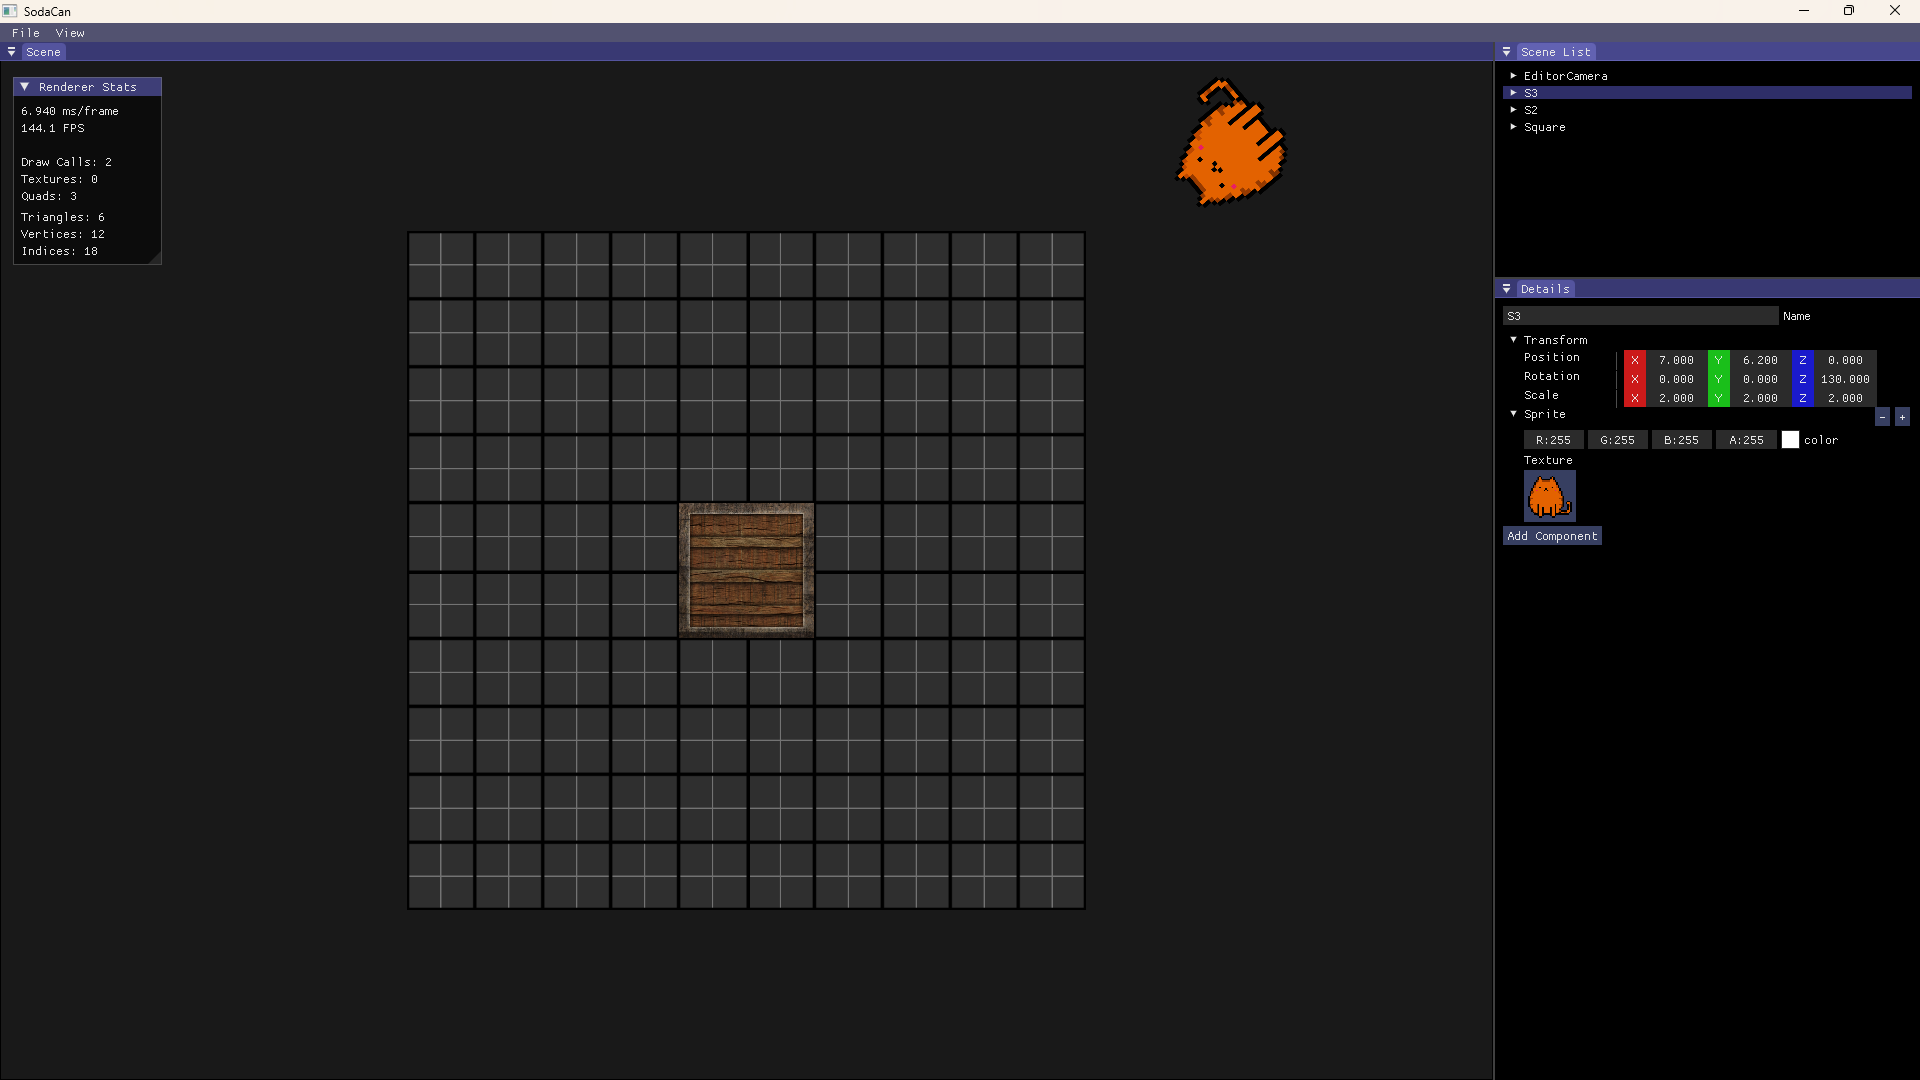
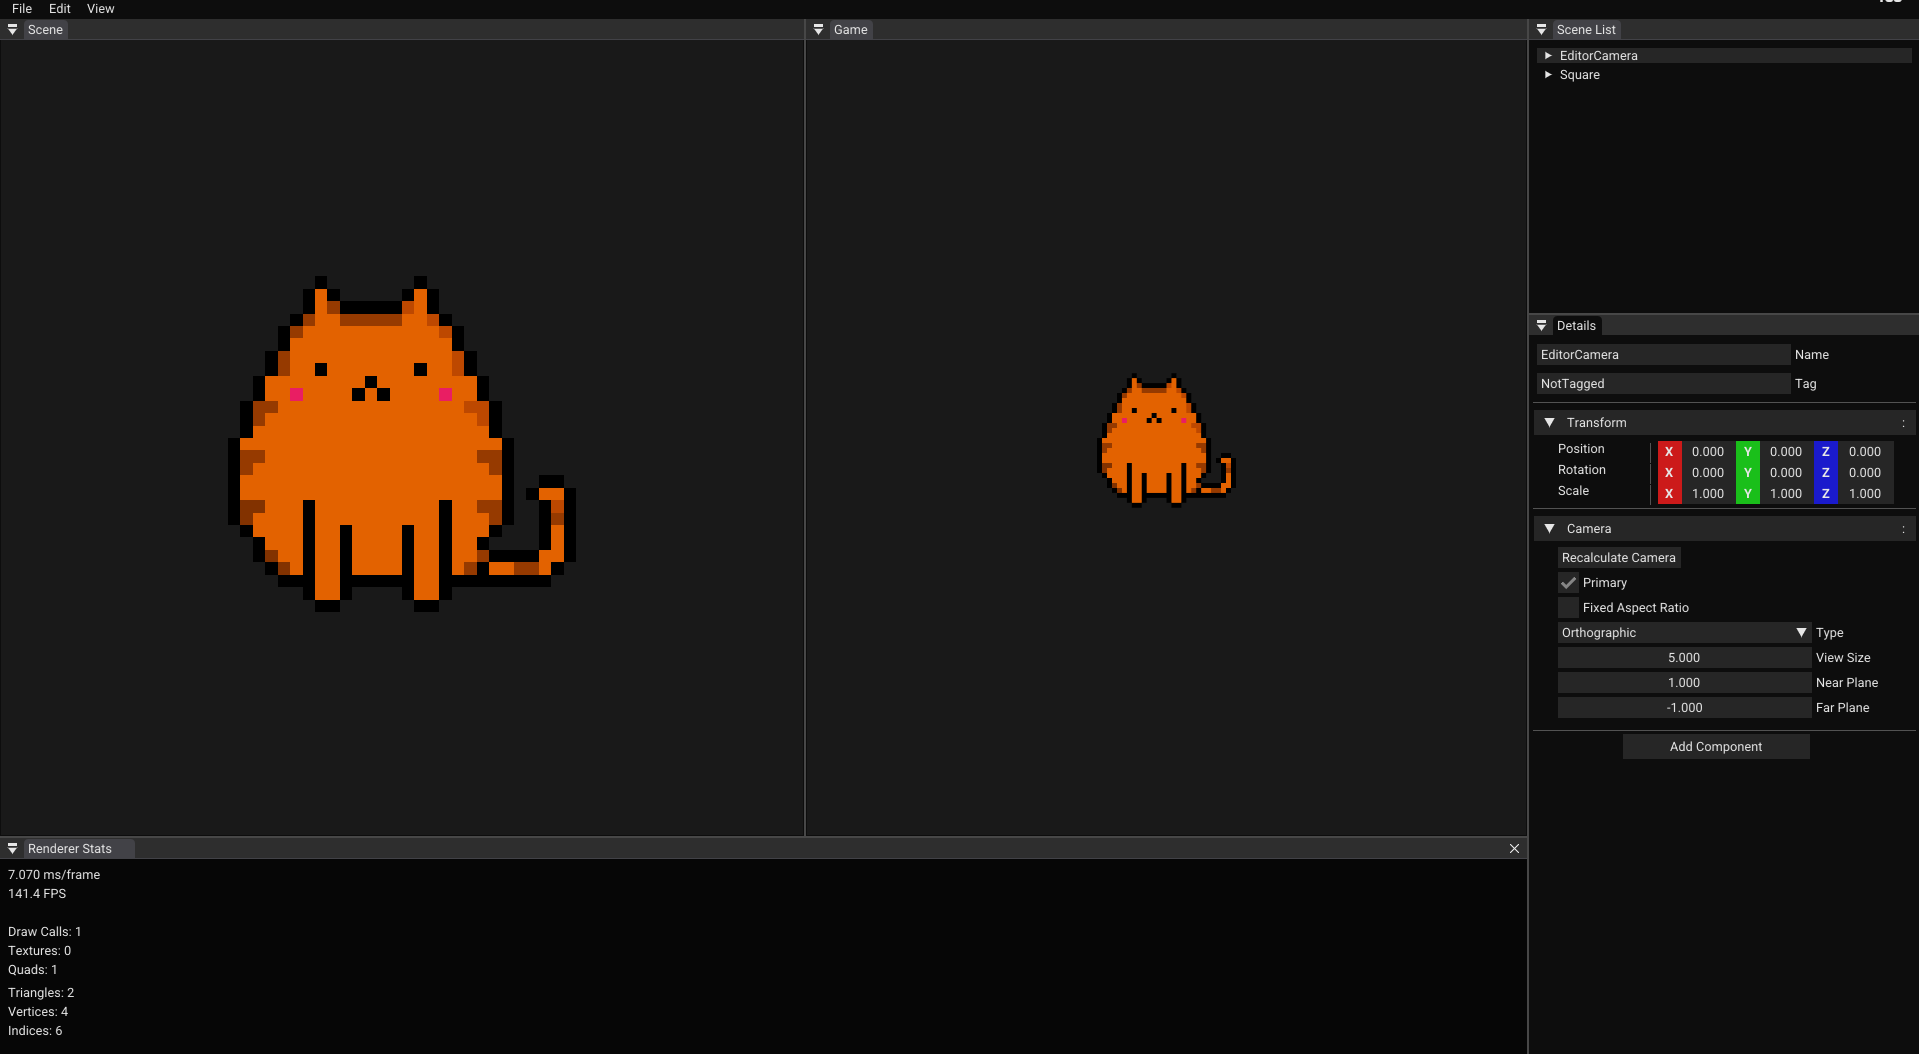
well, we have a scene view and an editor view now. time to add some widgets

diff --git a/SodaCan/src/AppLayer.cpp b/SodaCan/src/AppLayer.cpp
@@ -17,7 +17,8 @@ void SodaCan::OnAttach()
   FramebufferInfo m_FramebufferInfo;
   m_FramebufferInfo.width = 1280;
   m_FramebufferInfo.height = 720;
-  m_Framebuffer = Framebuffer::Create(m_FramebufferInfo);
+  m_EditorFramebuffer = Framebuffer::Create(m_FramebufferInfo);
+  m_GameFramebuffer = Framebuffer::Create(m_FramebufferInfo);
 
   m_Scene = CreateRef<Scene>();
 
@@ -44,32 +45,44 @@ void SodaCan::OnAttach()
 
 void SodaCan::OnUpdate(Timestep dt)
 {
-  if(FramebufferInfo fInfo = m_Framebuffer->GetFramebufferInfo();
-     m_ViewportSize.x > 0.0f && m_ViewportSize.y > 0.0f &&
-     (fInfo.width != m_ViewportSize.x || fInfo.height != m_ViewportSize.y))
+  if(FramebufferInfo fInfo = m_GameFramebuffer->GetFramebufferInfo();
+     m_GameViewportSize.x > 0.0f && m_GameViewportSize.y > 0.0f &&
+     (fInfo.width != m_GameViewportSize.x ||
+      fInfo.height != m_GameViewportSize.y))
   {
-    m_Framebuffer->Refresh((uint32_t)m_ViewportSize.x,
-                           (uint32_t)m_ViewportSize.y);
-    m_EditorCamera.WhenResized(m_ViewportSize.x, m_ViewportSize.y);
-
-    m_Scene->OnResize((uint32_t)m_ViewportSize.x, (uint32_t)m_ViewportSize.y);
+    m_GameFramebuffer->Refresh((uint32_t)m_GameViewportSize.x,
+                               (uint32_t)m_GameViewportSize.y);
+    m_Scene->OnGameResize((uint32_t)m_GameViewportSize.x,
+                          (uint32_t)m_GameViewportSize.y);
+  }
+  if(FramebufferInfo fInfo = m_EditorFramebuffer->GetFramebufferInfo();
+     m_EditorViewportSize.x > 0.0f && m_EditorViewportSize.y > 0.0f &&
+     (fInfo.width != m_EditorViewportSize.x ||
+      fInfo.height != m_EditorViewportSize.y))
+  {
+    m_EditorFramebuffer->Refresh((uint32_t)m_EditorViewportSize.x,
+                                 (uint32_t)m_EditorViewportSize.y);
+    m_EditorCamera.OnResize(m_EditorViewportSize.x, m_EditorViewportSize.y);
+    m_Scene->OnEditorResize((uint32_t)m_EditorViewportSize.x,
+                            (uint32_t)m_EditorViewportSize.y, m_EditorCamera);
   }
 
-  if(m_IsPanelHovered)
+  if(m_IsScenePanelHovered)
     m_EditorCamera.OnUpdate(dt);
 
-  m_Framebuffer->Bind();
+  m_GameFramebuffer->Bind();
   RenderCommand::ClearScreen({0.1f, 0.1f, 0.1f, 1.0f});
   Renderer2D::ResetRendererStats();
+  // Game Render Loop
+  m_Scene->OnGameUpdate(dt);
+  m_GameFramebuffer->Unbind();
 
-  // Render Loop
-  Renderer2D::StartScene(m_EditorCamera.GetCamera());
-  {
-    m_Scene->OnUpdate(dt);
-  }
-  Renderer2D::StopScene();
-
-  m_Framebuffer->Unbind();
+  m_EditorFramebuffer->Bind();
+  RenderCommand::ClearScreen({0.1f, 0.1f, 0.1f, 1.0f});
+  Renderer2D::ResetRendererStats();
+  // Editor Render Loop
+  m_Scene->OnEditorUpdate(dt, m_EditorCamera);
+  m_EditorFramebuffer->Unbind();
 }
 
 void SodaCan::OnEvent(Event &event)
@@ -172,24 +185,36 @@ void SodaCan::OnImGuiUpdate()
     m_Panels.OnImGuiRender();
 
     ImGui::PushStyleVar(ImGuiStyleVar_WindowPadding, ImVec2(0, 0));
+    // @FIXME: WTF is wrong with scrolling and consuming events?
+    // i dont even know if i set it up right
+    // i just know that scrolling works when the mouse isnt hovered in other
+    // imgui windows.
     ImGui::Begin("Scene");
     {
-      // Checks is the panel is Focused
-      // @FIXME: The Inputs should be consumed by the ImGui Panel and not the
-      // mani window.
-      m_IsPanelFocused = ImGui::IsWindowFocused();
-      m_IsPanelHovered = ImGui::IsWindowHovered();
+      m_IsScenePanelFocused = ImGui::IsWindowFocused();
+      m_IsScenePanelHovered = ImGui::IsWindowHovered();
 
-      App::Get().GetImGuiLayer()->ShouldConsumeEvents(!m_IsPanelHovered);
+      App::Get().GetImGuiLayer()->ShouldConsumeEvents(m_IsScenePanelHovered);
 
-      // @TODO: put this inside a OnWindowResize Callback somehow
-      // because we dont wanna check the scene/viewport each frame,
-      // we only wanna do it when we resize.
-      ImVec2 sceneSize = ImGui::GetContentRegionAvail();
-      m_ViewportSize = {sceneSize.x, sceneSize.y};
-      ImGui::Image((void *)m_Framebuffer->GetFrameTextureID(),
-                   ImVec2(m_ViewportSize.x, m_ViewportSize.y), ImVec2(0, 1),
-                   ImVec2(1, 0));
+      ImVec2 editorSceneSize = ImGui::GetContentRegionAvail();
+      m_EditorViewportSize = {editorSceneSize.x, editorSceneSize.y};
+      ImGui::Image((void *)m_EditorFramebuffer->GetFrameTextureID(),
+                   ImVec2(m_EditorViewportSize.x, m_EditorViewportSize.y),
+                   ImVec2(0, 1), ImVec2(1, 0));
+    }
+    ImGui::End();
+    ImGui::Begin("Game");
+    {
+      m_IsGamePanelFocused = ImGui::IsWindowFocused();
+      m_IsGamePanelHovered = ImGui::IsWindowHovered();
+
+      App::Get().GetImGuiLayer()->ShouldConsumeEvents(m_IsGamePanelHovered);
+
+      ImVec2 gameSceneSize = ImGui::GetContentRegionAvail();
+      m_GameViewportSize = {gameSceneSize.x, gameSceneSize.y};
+      ImGui::Image((void *)m_GameFramebuffer->GetFrameTextureID(),
+                   ImVec2(m_GameViewportSize.x, m_GameViewportSize.y),
+                   ImVec2(0, 1), ImVec2(1, 0));
     }
     ImGui::End();
     ImGui::PopStyleVar();

diff --git a/SodaEngine/src/ECS/Scene.cpp b/SodaEngine/src/ECS/Scene.cpp
@@ -24,8 +24,36 @@ Object Scene::CreateObject(const std::string &name)
 }
 void Scene::DestroyObject(Object obj) { m_Registry.destroy(obj); }
 
-// Scene Functions
-void Scene::OnUpdate(Timestep dt)
+// Editor Functions
+void Scene::OnEditorUpdate(Timestep dt, EditorCamera &editorCam)
+{
+  Renderer2D::StartScene(editorCam);
+  {
+    auto group =
+        m_Registry.group<TransformComponent>(entt::get<SpriteComponent>);
+
+    for(auto entity : group)
+    {
+      const auto &[Transform, Sprite] =
+          group.get<TransformComponent, SpriteComponent>(entity);
+
+      if(Sprite.Texture)
+        Renderer2D::DrawQuad(Transform.GetTransform(), Sprite.Texture,
+                             Sprite.Color, Sprite.TextureScale);
+      else
+        Renderer2D::DrawQuad(Transform.GetTransform(), Sprite.Color);
+    }
+  }
+  Renderer2D::StopScene();
+}
+void Scene::OnEditorResize(uint32_t width, uint32_t height,
+                           EditorCamera &editorcam)
+{
+  editorcam.OnResize(width, height);
+}
+
+// Game Functions
+void Scene::OnGameUpdate(Timestep dt)
 {
   // Script Components
   m_Registry.view<ScriptComponent>().each([=](auto entity, auto &script) {
@@ -81,8 +109,7 @@ void Scene::OnUpdate(Timestep dt)
     Renderer2D::StopScene();
   }
 }
-
-void Scene::OnResize(uint32_t width, uint32_t height)
+void Scene::OnGameResize(uint32_t width, uint32_t height)
 {
   auto cameras = m_Registry.view<CameraComponent>();
   for(auto camera : cameras)

diff --git a/SodaCan/src/AppLayer.h b/SodaCan/src/AppLayer.h
@@ -21,8 +21,9 @@ public:
   void OnResize(uint32_t width, uint32_t height) override;
 
 private:
-  OrthoCameraController m_EditorCamera;
-  Ref<Framebuffer> m_Framebuffer;
+  EditorCamera m_EditorCamera;
+  Ref<Framebuffer> m_GameFramebuffer;
+  Ref<Framebuffer> m_EditorFramebuffer;
   Ref<Scene> m_Scene;
 
   Object m_Square;
@@ -30,11 +31,16 @@ private:
   Object m_GameCamera;
   Object m_SecondCam;
 
-  glm::vec2 m_ViewportSize = glm::vec2(0.0f);
+  glm::vec2 m_GameViewportSize = glm::vec2(0.0f);
+  glm::vec2 m_EditorViewportSize = glm::vec2(0.0f);
   Panels m_Panels;
 
 private:
-  bool m_IsPanelFocused = false;
-  bool m_IsPanelHovered = false;
+  // game viewport
+  bool m_IsGamePanelFocused = false;
+  bool m_IsGamePanelHovered = false;
+  // Scene Viewport
+  bool m_IsScenePanelFocused = false;
+  bool m_IsScenePanelHovered = false;
 };
 } // namespace Soda

diff --git a/SodaEngine/src/Renderer/Framebuffer.cpp b/SodaEngine/src/Renderer/Framebuffer.cpp
@@ -15,12 +15,7 @@ Ref<Framebuffer> Framebuffer::Create(const FramebufferInfo &framebufferInfo)
     SD_ENGINE_ASSERT(!nullptr, "No API Selected :/");
 
   case RenderAPI::API::OpenGL:
-    // this is the first time this new CreateRef<> is being used (27-02-2024)
-    // if i take time to make everything a CreateRef instead of returning a
-    // pointer, i will delete this comment
     return CreateRef<OpenGLFramebuffer>(framebufferInfo);
-    // i can just check the commit if i wanna know when i added the comment.
-    // but this is just a look away
   }
 
   SD_ENGINE_ASSERT(!nullptr, "Invalid API Selection :O");

diff --git a/SodaEngine/src/ECS/Scene.h b/SodaEngine/src/ECS/Scene.h
@@ -4,6 +4,7 @@
 #include "glm/glm.hpp"
 
 #include "Core/Timestep.h"
+#include "Editor/EditorCamera.h"
 
 namespace Soda
 {
@@ -22,8 +23,10 @@ public:
   void DestroyObject(Object obj);
 
   // entity functions
-  void OnUpdate(Timestep dt);
-  void OnResize(uint32_t width, uint32_t height);
+  void OnEditorUpdate(Timestep dt, EditorCamera &editorCam);
+  void OnEditorResize(uint32_t width, uint32_t height, EditorCamera &editorcam);
+  void OnGameUpdate(Timestep dt);
+  void OnGameResize(uint32_t width, uint32_t height);
 
 private:
   entt::registry m_Registry;

diff --git a/SodaEngine/src/Renderer/Renderer2D.cpp b/SodaEngine/src/Renderer/Renderer2D.cpp
@@ -8,7 +8,6 @@
 #include "Renderer/Render.h"
 #include "Renderer2D.h"
 
-
 #include "Renderer/Shaderer.h"
 #include "Renderer/Texture.h"
 #include "Renderer/VertexArray.h"
@@ -125,6 +124,15 @@ void Renderer2D::Setup()
 
   m_QuadInfo.m_IndicesCount = 0;
   m_QuadInfo.m_TextureIndex = 1;
+}
+
+void Renderer2D::StartScene(const EditorCamera &camera)
+{
+  m_QuadInfo.m_Shader->Bind();
+  m_QuadInfo.m_Shader->SetUniformMat4(
+      "u_PVMat", camera.GetCamera().GetProjectionViewMat());
+
+  Setup();
 }
 
 void Renderer2D::StartScene(const OrthoCamera &camera)

diff --git a/SodaEngine/src/Editor/EditorCamera.cpp b/SodaEngine/src/Editor/EditorCamera.cpp
@@ -66,13 +66,12 @@ bool EditorCamera::OnMouseScrolled(MouseScrollEvent &msEvent)
 
 bool EditorCamera::OnWindowResized(WindowResizeEvent &wrEvent)
 {
-  WhenResized((float)wrEvent.GetWindowWidth(),
-              (float)wrEvent.GetWindowHeight());
+  OnResize((float)wrEvent.GetWindowWidth(), (float)wrEvent.GetWindowHeight());
 
   return false;
 }
 
-void EditorCamera::WhenResized(float width, float height)
+void EditorCamera::OnResize(float width, float height)
 {
   m_AspectRatio = width / height;
   m_Camera.SetProjection(-m_AspectRatio * m_ZoomLevel,

diff --git a/SodaEngine/src/Renderer/Renderer2D.h b/SodaEngine/src/Renderer/Renderer2D.h
@@ -1,10 +1,11 @@
 #pragma once
 
+#include "Editor/EditorCamera.h"
 #include "Renderer/Camera.h"
 #include "Renderer/RendererCamera.h"
-#include "Renderer/Texture.h"
 
 #include "Core/Core.h"
+#include "Renderer/Texture.h"
 #include "Tools/SpriteSheet.h"
 
 namespace Soda
@@ -40,6 +41,7 @@ public:
   // stuff
   static void StartScene(const RendererCamera &camera,
                          const glm::mat4 &transform);
+  static void StartScene(const EditorCamera &camera);
   static void StartScene(const OrthoCamera &camera);
   static void StopScene();
 

diff --git a/SodaEngine/src/Renderer/OpenGL/OpenGLFramebuffer.cpp b/SodaEngine/src/Renderer/OpenGL/OpenGLFramebuffer.cpp
@@ -41,7 +41,7 @@ void OpenGLFramebuffer::Unbind() const { glBindFramebuffer(GL_FRAMEBUFFER, 0); }
 
 void OpenGLFramebuffer::Refresh()
 {
-  // this is the texture that gets     into our framebuffer and on the screen
+  // this is the texture that gets into our framebuffer and on the screen
   glCreateFramebuffers(1, &m_FramebufferID);
   glBindFramebuffer(GL_FRAMEBUFFER, m_FramebufferID);
 

diff --git a/SodaCan/src/Panels/SceneListPanel.cpp b/SodaCan/src/Panels/SceneListPanel.cpp
@@ -201,7 +201,7 @@ void SceneListPanel::DrawObjectProperties(Object obj)
     {
       // @TODO: we need a dialog to select a texture
       Ref<Texture2D> m_tex =
-          Texture2D::Create("SodaCan/assets/textures/TheSodaCan.png");
+          Texture2D::Create("SodaCan/assets/textures/GingerCat.png");
       sprite.Texture = m_tex;
     }
   });

diff --git a/SodaEngine/src/Editor/EditorCamera.h b/SodaEngine/src/Editor/EditorCamera.h
@@ -20,7 +20,7 @@ public:
   void OnUpdate(float dt);
   void OnEvent(Event &event);
 
-  void WhenResized(float width, float height);
+  void OnResize(float width, float height);
 
   OrthoCamera &GetCamera() { return m_Camera; }
   const OrthoCamera &GetCamera() const { return m_Camera; }

diff --git a/SodaEngine/include/Soda.h b/SodaEngine/include/Soda.h
@@ -24,7 +24,7 @@
 #include "ECS/Scene.h"
 #include "ECS/ScriptEntity.h"
 
-#include "Editor/OrthoCameraController.h"
+#include "Editor/EditorCamera.h"
 #include "Renderer/Light.h"
 
 #include "ImGui/ImGuiLayer.h"
